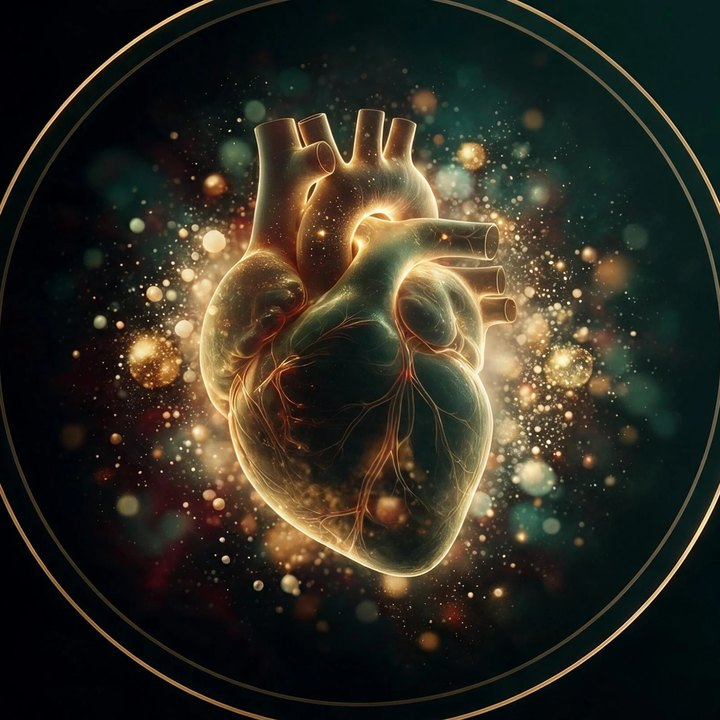
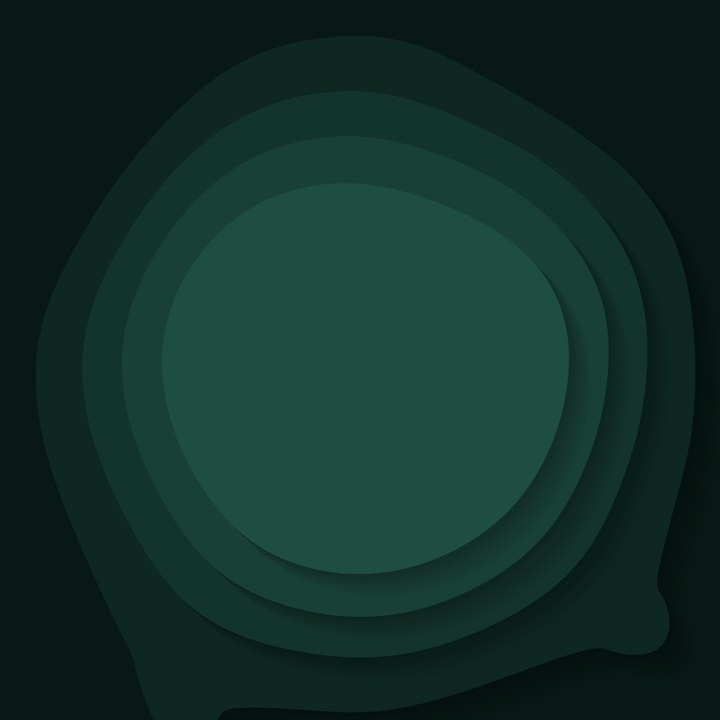
KUOVA age badge uses the brand "layers" background instead of the heart photo: stacked sheets with fractal-noise edges, no outline, the number on the central plateau; green or green with an amber centre in dark, sand or soft terracotta in light; generated by scripts/kuova-age-art.py (images ~16 KB e

diff --git a/src/components/KuovaAgeBadge.tsx b/src/components/KuovaAgeBadge.tsx
@@ -4,11 +4,12 @@ import { Image } from 'expo-image';
 import Svg, { Circle, Defs, LinearGradient, Stop } from 'react-native-svg';
 import { Colors } from '@/constants/colors';
 
-// Insignia de la Edad KUOVA, el "buque insignia" de Mis datos: la foto del corazón con su nebulosa
-// (la que eligió el fundador), recortada en círculo, con el aro dorado y solo el número encima.
-// Hay cuatro versiones de la misma foto (assets/images/kuova-age, hechas con un script a partir del
-// original): dorada o rojiza en tema oscuro y verde o terracota en claro, según si la Edad KUOVA
-// sale por debajo (good) o por encima (watch) de la edad real.
+// Insignia de la Edad KUOVA, el "buque insignia" de Mis datos: las "capas" de la marca (láminas
+// apiladas con borde de ruido fractal, sin contorno; las eligió el fundador), recortadas en círculo,
+// con el aro dorado y solo el número encima, en la meseta del centro. Hay cuatro versiones
+// (assets/images/kuova-age, generadas con scripts/kuova-age-art.py): verde o verde con centro ámbar en
+// tema oscuro y arena o terracota suave en claro, según si la Edad KUOVA sale por debajo (good) o por
+// encima (watch) de la edad real.
 const ART = {
   dark: { good: require('../../assets/images/kuova-age/dark_good.jpg'), watch: require('../../assets/images/kuova-age/dark_watch.jpg') },
   light: { good: require('../../assets/images/kuova-age/light_good.jpg'), watch: require('../../assets/images/kuova-age/light_watch.jpg') },

diff --git a/scripts/kuova-age-art.py b/scripts/kuova-age-art.py
@@ -1,52 +1,126 @@
-"""Versiones de la foto del corazón para la insignia de la Edad KUOVA (src/components/KuovaAgeBadge.tsx).
-Recorta el interior del aro (el aro lo pinta la app), reduce a 720 px y genera:
-  dark_good  (original, dorado)        dark_watch (ámbar/rojizo: edad por encima de la real)
-  light_good (corazón verde sobre claro) light_watch (corazón terracota sobre claro)
-Original: assets/images/kuova-age/original.webp (la eligió el fundador).
-Uso: python scripts/kuova-age-art.py assets/images/kuova-age/original.webp assets/images/kuova-age"""
-import sys, colorsys
+"""Fondo de la insignia de la Edad KUOVA (src/components/KuovaAgeBadge.tsx): "capas" de marca.
+Láminas apiladas cuyo borde sale de un ruido fractal suave, con la meseta de arriba en el centro, donde va el
+número. Sin contorno: solo cambios de tono y una sombra difusa. El aro dorado lo pinta la app.
+Genera cuatro versiones de 720 px:
+  dark_good  (verde)        dark_watch  (ámbar: edad por encima de la real)
+  light_good (arena/crema)  light_watch (terracota suave)
+Es el mismo algoritmo que la página de bocetos (ronda 3, «Capas, versión sobria»), con la misma semilla.
+Uso: python scripts/kuova-age-art.py assets/images/kuova-age"""
+import sys
 from pathlib import Path
-from PIL import Image, ImageDraw
 import numpy as np
+from PIL import Image, ImageDraw
 
-src, out = Path(sys.argv[1]), Path(sys.argv[2])
-out.mkdir(parents=True, exist_ok=True)
-im = Image.open(src).convert('RGB')
-c, r = 1000, 792
-im = im.crop((c - r, c - r, c + r, c + r)).resize((720, 720), Image.LANCZOS)
-a = np.asarray(im).astype(np.float32) / 255.0
+M32 = 0xFFFFFFFF
 
-def save(arr, name):
-    Image.fromarray((np.clip(arr, 0, 1) * 255).astype(np.uint8)).save(out / f'{name}.jpg', quality=86, optimize=True)
 
-save(a, 'dark_good')
+def rng(seed):
+    # mulberry32, igual que en la página de bocetos, para que salga la misma forma
+    s = seed & M32
 
-# Ámbar/rojizo: gira el tono de los dorados hacia el naranja-rojo
-hsv = np.asarray(Image.fromarray((a * 255).astype(np.uint8)).convert('HSV')).astype(np.float32)
-h = hsv[..., 0]
-warm = (h > 10) & (h < 60)  # dorados (escala 0-255)
-hsv[..., 0] = np.where(warm, h - 18, h) % 255
-hsv[..., 1] = np.where(warm, np.minimum(255, hsv[..., 1] * 1.15), hsv[..., 1])
-watch = np.asarray(Image.fromarray(hsv.astype(np.uint8), 'HSV').convert('RGB')).astype(np.float32) / 255.0
-save(watch, 'dark_watch')
+    def nxt():
+        nonlocal s
+        s = (s + 0x6D2B79F5) & M32
+        t = s
+        t = ((t ^ (t >> 15)) * (t | 1)) & M32
+        t = (t ^ ((t + (((t ^ (t >> 7)) * (t | 61)) & M32)) & M32)) & M32
+        return ((t ^ (t >> 14)) & M32) / 4294967296
 
-# Versión clara: lo luminoso (corazón, destellos) en color sobre el fondo claro de la app
-lum = (0.299 * a[..., 0] + 0.587 * a[..., 1] + 0.114 * a[..., 2])
-t = np.clip((lum - 0.06) / 0.75, 0, 1) ** 0.85
-bg = np.array([0.965, 0.953, 0.925])  # crema claro
-def light(main, high):
-    main, high = np.array(main), np.array(high)
-    col = main[None, None, :] * (1 - t[..., None] ** 2) + high[None, None, :] * (t[..., None] ** 2)
-    return bg * (1 - t[..., None] * 0.85) + col * (t[..., None] * 0.85)
-save(light([0.18, 0.42, 0.34], [0.55, 0.66, 0.45]), 'light_good')
-save(light([0.62, 0.36, 0.20], [0.80, 0.60, 0.35]), 'light_watch')
+    return nxt
 
-# Hoja de contacto para revisar
-sheet = Image.new('RGB', (4 * 360 + 50, 380), (120, 120, 120))
-for i, n in enumerate(['dark_good', 'dark_watch', 'light_good', 'light_watch']):
-    tile = Image.open(out / f'{n}.jpg').resize((360, 360))
-    mask = Image.new('L', (360, 360), 0)
-    ImageDraw.Draw(mask).ellipse((0, 0, 359, 359), fill=255)
-    sheet.paste(tile, (10 + i * 370, 10), mask)
-sheet.save(out / 'sheet.png')
-print('ok', [p.stat().st_size // 1024 for p in sorted(out.glob('*.jpg'))])
+
+def make_noise(seed):
+    r = rng(seed)
+    perm = list(range(256))
+    for i in range(255, 0, -1):
+        j = int(r() * (i + 1))
+        perm[i], perm[j] = perm[j], perm[i]
+    P = np.array(perm + perm, dtype=np.int64)
+    ang = np.array([r() * np.pi * 2 for _ in range(256)])
+    G = np.stack([np.cos(ang), np.sin(ang)], axis=1)
+    fade = lambda t: t * t * t * (t * (t * 6 - 15) + 10)
+
+    def n(x, y):
+        X, Y = np.floor(x).astype(np.int64), np.floor(y).astype(np.int64)
+        xf, yf = x - X, y - Y
+
+        def g(i, j):
+            v = G[P[(P[(X + i) & 255] + Y + j) & 255]]
+            return v[..., 0] * (xf - i) + v[..., 1] * (yf - j)
+
+        u, w = fade(xf), fade(yf)
+        a = g(0, 0) + (g(1, 0) - g(0, 0)) * u
+        b = g(0, 1) + (g(1, 1) - g(0, 1)) * u
+        return a + (b - a) * w
+
+    def fbm(x, y, octaves):
+        s, amp, f, norm = 0.0, 1.0, 1.0, 0.0
+        for _ in range(octaves):
+            s = s + amp * n(x * f, y * f)
+            norm += amp
+            amp *= 0.5
+            f *= 2
+        return s / norm
+
+    return fbm
+
+
+def smooth(e0, e1, x):
+    t = np.clip((x - e0) / (e1 - e0), 0, 1)
+    return t * t * (3 - 2 * t)
+
+
+def hexrgb(h):
+    return np.array([int(h[i:i + 2], 16) for i in (1, 3, 5)], dtype=np.float64)
+
+
+def capas(size, bg, top, shadow, levels=5):
+    W = size
+    k = W / 196  # los bocetos se dibujaron a 196 px; la sombra escala con el tamaño
+    yy, xx = np.mgrid[0:W, 0:W].astype(np.float64)
+    s = 1.5 / W
+    f = 0.5 + make_noise(21)(xx * s + 4.3, yy * s + 2.1, 2) * 1.1
+    base = 1 - smooth(0.32, 1.05, np.hypot(xx - W / 2, yy - W / 2) / (W / 2))
+    T = np.clip((0.24 * f + 0.9 * base) * levels, 0, levels - 0.001)
+    L = np.floor(T).astype(np.int64)
+    fr = T - L
+    gx = np.diff(T, axis=1, append=T[:, -1:])
+    gy = np.diff(T, axis=0, append=T[-1:, :])
+    g = np.maximum(1e-4, np.hypot(gx, gy))
+    blend = np.minimum(1, fr / g)
+    bg, top = hexrgb(bg), hexrgb(top)
+    tone = lambda l: bg + (top - bg) * (np.clip(l, 0, None) / (levels - 1))[..., None] ** 0.9
+    c = np.where((L > 0)[..., None], tone(L - 1) + (tone(L) - tone(L - 1)) * blend[..., None], tone(L))
+    # Sombra difusa que proyecta cada lámina sobre la de abajo (luz desde arriba a la izquierda)
+    S, step = int(round(7 * k)), max(1, int(round(k)))
+    sh = np.zeros_like(T)
+    for d in range(step, S + 1, step):
+        shifted = np.full_like(L, -1)
+        shifted[d:, d:] = L[:-d, :-d]
+        sh = np.where((shifted > L) & (sh == 0), 1 - d / S, sh)
+    c = c * (1 - sh * shadow)[..., None]
+    return Image.fromarray(np.clip(c, 0, 255).astype(np.uint8))
+
+
+VERSIONS = {
+    'dark_good': ('#081814', '#1E4D41', 0.32),
+    'dark_watch': ('#081814', '#5A4424', 0.32),
+    'light_good': ('#E9E1D2', '#FAF8F3', 0.09),
+    'light_watch': ('#EBD6C3', '#FBF5EF', 0.09),
+}
+
+if __name__ == '__main__':
+    out = Path(sys.argv[1])
+    out.mkdir(parents=True, exist_ok=True)
+    for name, (bg, top, shadow) in VERSIONS.items():
+        # Se dibuja al doble y se reduce para suavizar los bordes entre láminas
+        capas(1440, bg, top, shadow).resize((720, 720), Image.LANCZOS).save(out / f'{name}.jpg', quality=88, optimize=True)
+    # Hoja de contacto para revisar
+    sheet = Image.new('RGB', (4 * 360 + 50, 380), (120, 120, 120))
+    for i, n in enumerate(VERSIONS):
+        tile = Image.open(out / f'{n}.jpg').resize((360, 360))
+        mask = Image.new('L', (360, 360), 0)
+        ImageDraw.Draw(mask).ellipse((0, 0, 359, 359), fill=255)
+        sheet.paste(tile, (10 + i * 370, 10), mask)
+    sheet.save(out / 'sheet.png')
+    print('ok', [p.stat().st_size // 1024 for p in sorted(out.glob('*.jpg'))])
